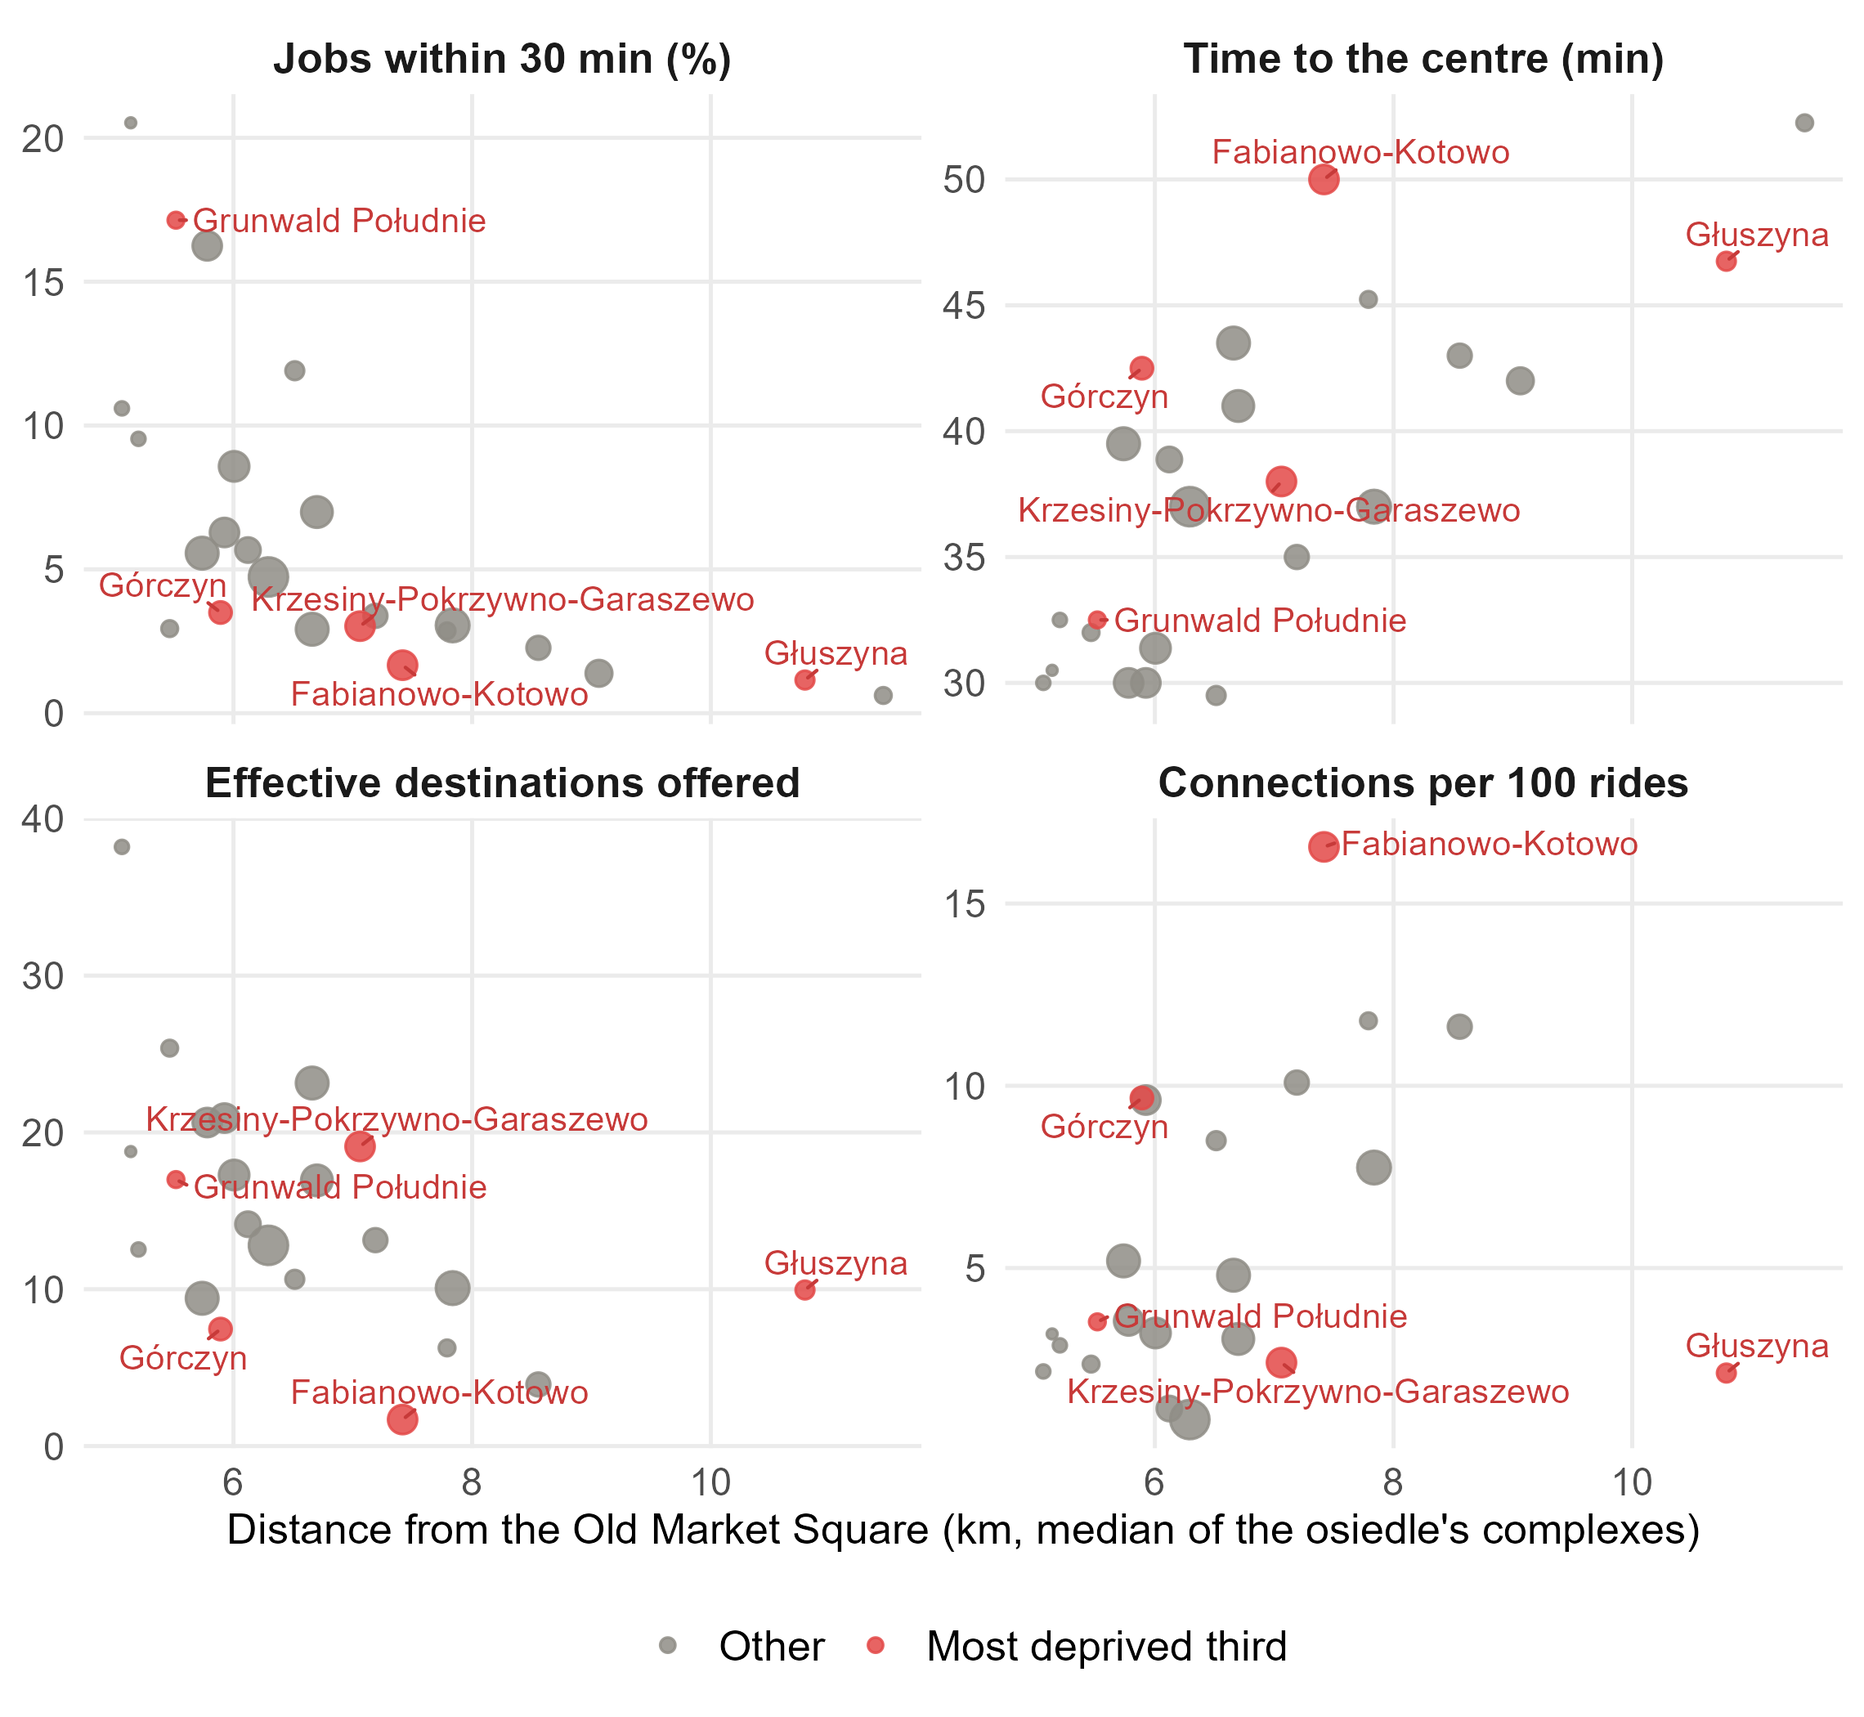
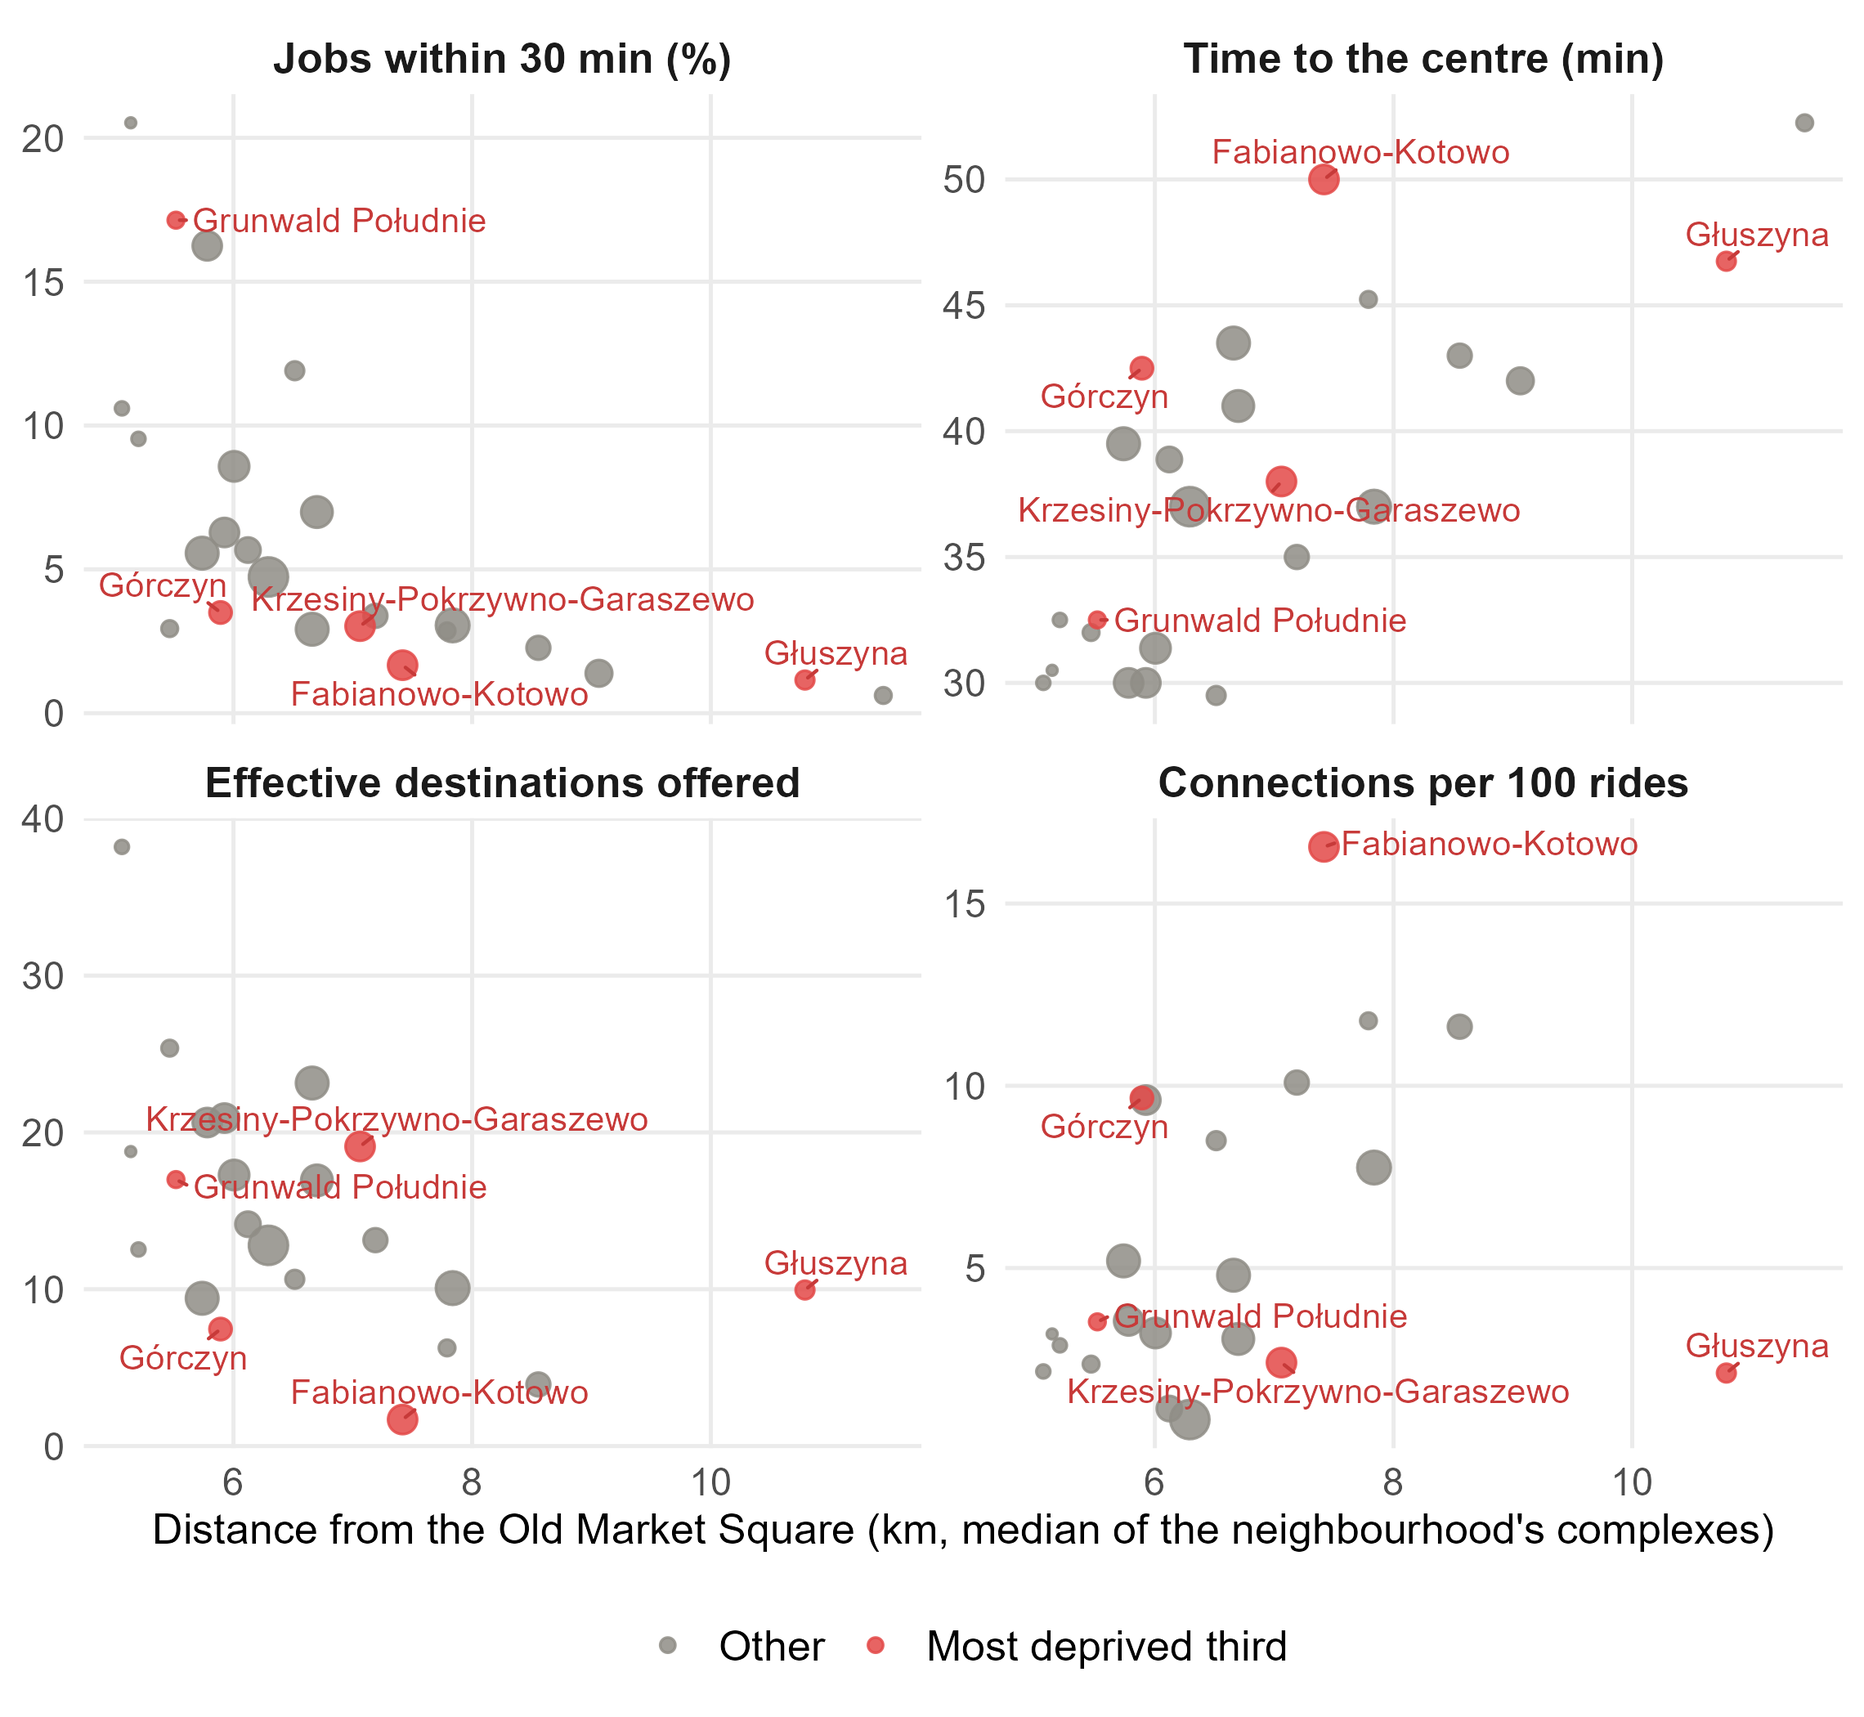
Add periphery usage tests, offer-weighting check and supplement tables; neighbourhoods in figures
- Stage 8, section 84: compares the offer weighted by departures over periods with the
  offer that keeps each period's boardings (r >= 0.997 across origins).
- Section 85: deprived and other peripheral neighbourhoods on all 22 measures and the use
  part of destination deprivation, by exact randomisation, with direct lines to the centre.
- Section 86: rows of supplementary Tables S4-S6 (sharing, re-allocations, periphery)
  as CSV and LaTeX in output/supplement.
- Figures 2, 4, 5 and 8: "neighbourhood" replaces "osiedle" in labels; Figure 8 without
  the medians column, with a wider plot and wrapped group labels.
- README: new title wording, neighbourhoods, stage 8 sections 73-86.

Changed region(s): [[0.0934, 0.8667, 0.9342, 0.8976]]

diff --git a/README.md b/README.md
@@ -1,10 +1,10 @@
 # The dual pulse of a city
 
-**How deprivation shapes usage of public transport?**
+**How does deprivation shape the use of public transport?**
 
 Marcin Wozniak (Adam Mickiewicz University, Poznań) and Gabriele Filomena (University of Liverpool)
 
-Code and figures for the paper *The dual pulse of a city. How deprivation shapes usage of public transport?* (manuscript in preparation).
+Code and figures for the paper *The dual pulse of a city. How does deprivation shape the use of public transport?* (manuscript in preparation).
 
 ![Graphical abstract](figures/Graphical_abstract.png)
 
@@ -28,7 +28,7 @@ Usage combines what the network offers at a stop with the use riders make of it.
 
 - **Door counts.** Ten months (January–October 2025) of PEKA vehicle location and passenger-count records: 67.9 million operated stop visits, 45% of them counted. Expanded to all operated visits, they give 148 million boardings, about 640,000 on an average term-time weekday.
 - **Stops.** 607 stop complexes, each with a mutually exclusive 400 m walking catchment on the OpenStreetMap pedestrian network; 428 complexes with residents are compared.
-- **Deprivation.** The city's revitalisation indicators of unemployment and social assistance for its 42 osiedla (2019 and 2021), assigned to catchments through address-level registered population. Municipal housing gives a finer indicator within osiedla.
+- **Deprivation.** The city's revitalisation indicators of unemployment and social assistance for its 42 neighbourhoods (osiedla) (2019 and 2021), assigned to catchments through address-level registered population. Municipal housing gives a finer indicator within neighbourhoods.
 - **Land use.** Building function and floor area (BDOT10k), the 2023 structure plan, OpenStreetMap amenities, ESA WorldCover tree cover and a modelled employment grid.
 
 ## Main findings
@@ -38,7 +38,7 @@ Usage combines what the network offers at a stop with the use riders make of it.
 - **Destinations record the offer first.** The lines that serve deprived areas run through other deprived districts, so the network would carry their riders to places 0.82 SD more deprived per SD of origin deprivation; most of this (0.66) is geography, because deprived places lie near each other. The use riders make of their lines narrows the gap to 0.60. It is the one robust difference in use, and it comes from riders of the least deprived areas travelling into the inner city more than their lines offer.
 - **Two streams that meet in the centre.** Traced along the network, riders from the least deprived third ride north–south, along the rapid tram from Piątkowo and Winogrady, and riders from the most deprived third west–east, through Ogrody, Jeżyce, Łazarz and Śródka. The two share 41% of their ride-kilometres, and the lines offer the same streams. Where riders get off they meet: arrivals overlap 0.73 within 1.5 km of the centre, against 0.41 beyond 5 km. Against random and rotated maps of deprivation, the direction of the streams follows from where deprivation clusters; only the isolation of the least deprived third on its own lines exceeds every map.
 - **The advantage is contingent.** If the same 42 deprivation scores rose with distance from the centre, the same network would give the most deprived third 3.8% of the city's jobs within 30 minutes, against 42.5% for the least deprived.
-- **Beyond the offer, usage differs little,** and it responds alike to leave days, service cuts and weather. With 42 osiedla and a noisy deprivation score, moderate differences cannot be ruled out.
+- **Beyond the offer, usage differs little,** and it responds alike to leave days, service cuts and weather. With 42 neighbourhoods and a noisy deprivation score, moderate differences cannot be ruled out.
 
 ## Figures
 
@@ -47,9 +47,9 @@ Usage combines what the network offers at a stop with the use riders make of it.
 | | |
 |:---:|:---:|
 | ![Construction](figures/Fig_construction.png) | ![The offer](figures/Fig_access_bivariate.png) |
-| **Figure 2.** How deprivation is assigned to stop catchments: osiedle score; in one window where four osiedla meet, walking catchments and catchment deprivation; all stops with the rings and sectors that define location. | **Figure 3.** What the network offers: the network over the compact pre-war blocks, deprivation against jobs reachable within 30 minutes, and concentration curves. |
+| **Figure 2.** How deprivation is assigned to stop catchments: neighbourhood score; in one window where four neighbourhoods meet, walking catchments and catchment deprivation; all stops with the rings and sectors that define location. | **Figure 3.** What the network offers: the network over the compact pre-war blocks, deprivation against jobs reachable within 30 minutes, and concentration curves. |
 | ![Periphery](figures/Fig_periphery.png) | ![Offer and use](figures/Fig_offer_use.png) |
-| **Figure 4.** What the network offers at the periphery: osiedla more than 5 km from the centre, the deprived ones in red. | **Figure 5.** Offer and use: each gap split into what the network offers and the use riders make of it, use with the offer held fixed, and where use changes the deprivation of destinations. |
+| **Figure 4.** What the network offers at the periphery: neighbourhoods more than 5 km from the centre, the deprived ones in red. | **Figure 5.** Offer and use: each gap split into what the network offers and the use riders make of it, use with the offer held fixed, and where use changes the deprivation of destinations. |
 | ![Two streams](figures/Fig_two_streams.png) | ![Sharing benchmarks](figures/Fig_sharing_benchmark.png) |
 | **Figure 6.** Two streams on one network: riding (corridors), getting off (stops) and the direction of each third's ride-kilometres. | **Figure 7.** Sharing the network, on the lines and where riders get off, against deprivation scattered at random and the map turned or mirrored around the centre. |
 | ![Decomposition](figures/Fig_decomposition.png) | |
@@ -63,9 +63,9 @@ Figure 1 is the framework drawn above.
 | | |
 |:---:|:---:|
 | ![S1](figures/Fig_construction_full.png) | ![S2](figures/Fig_s1ms_associations.png) |
-| **S1.** How deprivation is assigned to stop catchments, in full. | **S2.** Land use around residents' homes and deprivation across the 42 osiedla. |
+| **S1.** How deprivation is assigned to stop catchments, in full. | **S2.** Land use around residents' homes and deprivation across the 42 neighbourhoods. |
 | ![S3](figures/Fig_s1ms_maps.png) | ![S4](figures/Fig_sharpen_onset.png) |
-| **S3.** Deprivation by osiedle and land-use types of populated cells. | **S4.** The early-boarding gradient across refined measures. |
+| **S3.** Deprivation by neighbourhood and land-use types of populated cells. | **S4.** The early-boarding gradient across refined measures. |
 | ![S5](figures/Fig_hubsheds.png) | ![S6](figures/Fig_flows_groups.png) |
 | **S5.** Catchment deprivation and hub-sheds. | **S6.** Largest morning-peak flows from the least and the most deprived thirds. |
 | ![S7](figures/Fig_destination_density.png) | ![S8](figures/Fig_destination_mechanisms.png) |
@@ -79,7 +79,7 @@ Figure 1 is the framework drawn above.
 | ![S15](figures/Fig_behaviour.png) | ![S16](figures/Fig_extremes.png) |
 | **S15.** Responses to leave days, service cuts and weather. | **S16.** The extremes of deprivation. |
 | ![S17](figures/Fig_gap_ladder.png) | ![S18](figures/Fig_gap_loo.png) |
-| **S17.** Slopes raw, net of position and net of land use and population. | **S18.** Remainders with one osiedle left out. |
+| **S17.** Slopes raw, net of position and net of land use and population. | **S18.** Remainders with one neighbourhood left out. |
 
 Drawn for the supplement, not yet numbered in it:
 
@@ -114,14 +114,14 @@ flowchart LR
 
 | Stage | Sections | What it does |
 |---|---|---|
-| [`01_areas_population.R`](scripts/01_areas_population.R) | 01–07 | Osiedle boundaries, the 200 m grid, address points, registered residents geocoded to them, the 2023 zoning, populated cells. |
+| [`01_areas_population.R`](scripts/01_areas_population.R) | 01–07 | Neighbourhood (neighbourhood) boundaries, the 200 m grid, address points, registered residents geocoded to them, the 2023 zoning, populated cells. |
 | [`02_land_use.R`](scripts/02_land_use.R) | 14, 15a | BDOT10k, OpenStreetMap and WorldCover inputs; land-use descriptors of populated cells. |
 | [`03_deprivation_land_use.R`](scripts/03_deprivation_land_use.R) | 16, 18–20 | The deprivation score and where deprived areas sit in land use (supplementary S4). |
 | [`04_stops_catchments.R`](scripts/04_stops_catchments.R) | 21, 39, 15b, 34, 37, 62 | Stop complexes, walking catchments, their land use, residents, deprivation and municipal housing. |
 | [`05_passenger_counts.R`](scripts/05_passenger_counts.R) | ingest, 40–42, 22, 23, 58 | Ingest, trip-level cleaning, stop-to-stop flows by three estimators, expansion, same-trip indices, descriptive checks. |
 | [`06_destinations_routes_access.R`](scripts/06_destinations_routes_access.R) | 45–47, 50, 51, 53, 54 | Destinations against a network baseline, interchanges and transfers, routes, timetable-based access. |
 | [`07_usage_responses.R`](scripts/07_usage_responses.R) | 43, 48, 52, 61 | Tests stated before modelling, early boardings, responses to leave days, service cuts and weather, tram and bus. |
-| [`08_gaps_inference.R`](scripts/08_gaps_inference.R) | 56, 55, 59, 63, 65–68, 73–83 | The 22 gaps raw, net of position and net of land use and population; decomposition; CR2-Satterthwaite inference, wild cluster bootstrap, measurement error, equivalence; spatial placebo; equity and counterfactual geographies; estimator checks; offer and use; peripheral deprivation with osiedle-level randomisation inference; the early offer and its use; what location stands for (jobs nearby, structure of service); segregation by destination (geography, network, use); sharing the network on corridors, lines and stops, against deprivation scattered at random and the map turned or mirrored; Figures 4–7. |
+| [`08_gaps_inference.R`](scripts/08_gaps_inference.R) | 56, 55, 59, 63, 65–68, 73–86 | The 22 gaps raw, net of position and net of land use and population; decomposition; CR2-Satterthwaite inference, wild cluster bootstrap, measurement error, equivalence; spatial placebo; equity and counterfactual geographies; estimator checks; offer and use; peripheral deprivation with neighbourhood-level randomisation inference; the early offer and its use; what location stands for (jobs nearby, structure of service); segregation by destination (geography, network, use); sharing the network on corridors, lines and stops, against deprivation scattered at random and the map turned or mirrored; usage and the link to the centre at the periphery; the offer weighted by departures or by boardings; the supplement tables of sharing, re-allocations and the periphery; Figures 4–7. |
 | [`09_figures.R`](scripts/09_figures.R) | 57, 60, 64, 71, 70, 69, 72 | Main-text figures 2, 3 and 8, maps for the supplement and the graphical abstract (Figures 4–7 are drawn by sections 75, 74 and 81). |
 
 Helpers in [`R/`](R): `setup.R` (paths and the section runner), `od_expand.R` (expansion of counted flows to all operated trips), `cr_inference.R` (CR2 standard errors with Satterthwaite degrees of freedom, effective clusters, wild cluster bootstrap), `seg_index.R` (indices of sharing the network and the turned maps of deprivation), `map_style.R` (shared cartographic style) and `tissue_descriptors.R` (land-use descriptors for cells and catchments).
@@ -132,8 +132,8 @@ Helpers in [`R/`](R): `setup.R` (paths and the section runner), `od_expand.R` (e
 - **Destinations from door counts.** Counts do not link boardings to alightings. On every counted trip, the Tsygalnitsky recursion (the biproportional fit of a uniform seed) assigns alightings to everyone on board, reproducing boardings, alightings and loads. A distance-seeded fit, the earlier proportional rule and a synthetic test serve as checks. A network baseline assigns riders to every line and direction at their stop in proportion to departures.
 - **Transfers.** Boardings on each departure at the 64 interchanges are regressed on alightings from other lines in the preceding 10 minutes, with later alightings as a placebo.
 - **Offer and use.** For the nine destination and route measures, each observed slope on deprivation splits into the part offered by the network baseline and the use made of it; use is also estimated with the offer held fixed.
-- **Sharing the network.** Each estimated ride is traced along its line's stop sequence and takes the deprivation of the catchment where it boards. Overlap, isolation (net of group size), exposure and the variance ratio of riders' deprivation are computed on corridors, on lines (line, direction, segment and period) and at the stops where riders get off, and compared with the same flows under 999 random allocations of the 42 osiedle scores and 47 turned or mirrored maps of them.
-- **Comparisons.** Slopes of each standardised measure on standardised catchment deprivation, raw, net of position (distance spline, sector and, for measures other than the same-trip indices, service at the stop) and net of land use and population. Gelbach decomposition; CR2 standard errors by osiedle with Satterthwaite degrees of freedom; Benjamini–Hochberg and Romano–Wolf control; correction for the score's reliability; equivalence tests at ±0.2 SD.
+- **Sharing the network.** Each estimated ride is traced along its line's stop sequence and takes the deprivation of the catchment where it boards. Overlap, isolation (net of group size), exposure and the variance ratio of riders' deprivation are computed on corridors, on lines (line, direction, segment and period) and at the stops where riders get off, and compared with the same flows under 999 random allocations of the 42 neighbourhood scores and 47 turned or mirrored maps of them.
+- **Comparisons.** Slopes of each standardised measure on standardised catchment deprivation, raw, net of position (distance spline, sector and, for measures other than the same-trip indices, service at the stop) and net of land use and population. Gelbach decomposition; CR2 standard errors by neighbourhood with Satterthwaite degrees of freedom; Benjamini–Hochberg and Romano–Wolf control; correction for the score's reliability; equivalence tests at ±0.2 SD.
 
 ## Running it
 
